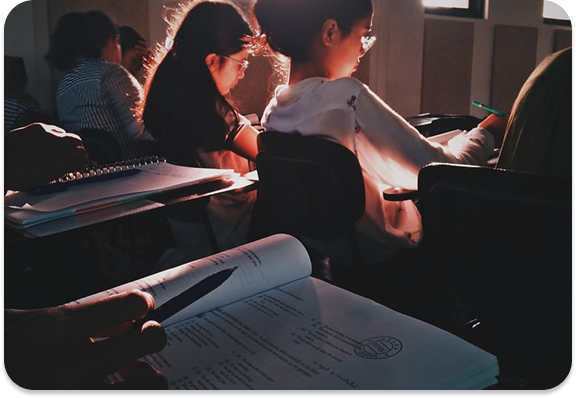
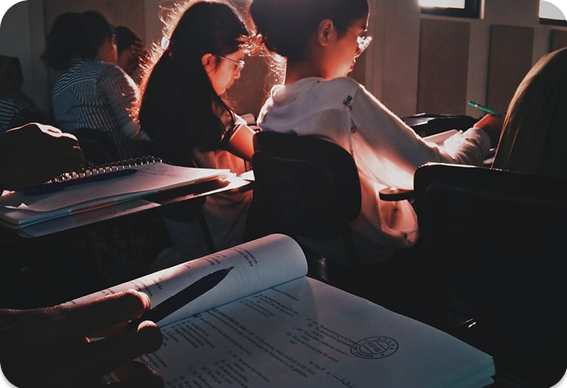
Add about section with content and styles; update margin utilities and navigation layout

diff --git a/index.html b/index.html
@@ -36,7 +36,7 @@
       </ul>
     </nav>
     <main class="main-section container">
-      <section class="hero-section grid-cols-2 u-margin-y-medium shadow--bl">
+      <section class="hero-section grid-cols-2 u-margin-bottom-xl">
         <div class="hero__images shadow--center">
           <img
             src="assets/images/mobile-home.png"
@@ -89,6 +89,36 @@
               </div>
             </div>
           </div>
+        </div>
+      </section>
+
+      <section class="about-section u-margin-bottom-xl">
+        <h2 class="heading-secondary u-margin-bottom-medium">درباره ما</h2>
+
+        <div class="grid-cols-2 class">
+          <div>
+            <h2 class="heading-secondary">با لکسی آسان یاد بگیر</h2>
+            <p class="paragraph">
+              اپلیکیشن لکسی، اولین پلنفرم هوشمند آموزش زبان انگلیسی میباشد که با
+              بهره گیری از مناسب ترین متد آموزشی، شما میتوانید آموزش زبان را با
+              آن شروع کنید. محتوای آموزشی این اپ، کاملا اصلی و به اصلاح ارجینال
+              میباشد و تیم تولید محتوای لکسی بصورت تخصصی مشغول تولید محتوای
+              آموزشی برای اپ بوده اند. همچین با استفاده از لکسی، هر 4 مهارت اصلی
+              شامل Reading, Listening, Writing, speaking به کاربر آموزش داده
+              میشه و در پایان هر درس، آزمون هوشمند برای سنجش سطح کاربر گرفته
+              میشود. در هر درس، تمریناتی وجود دارد که کاربر میبایست آنها را
+              انجام داده و در برنامه آپلود کند و اینجاست که این تمرینات توسط
+              معلمان تصحیح شده و به کاربر بازخورد داده میشود. وجود یک معلم که
+              همیشه همراه کاربر باشد، لکسی را به بهترین برنامه برای آموزش زبان
+              انگلسی تبدیل میکند.
+            </p>
+          </div>
+
+          <img
+            class="about__image"
+            src="assets/images/about-us.png"
+            alt="About us image"
+          />
         </div>
       </section>
     </main>

diff --git a/sass/pages/_home.scss b/sass/pages/_home.scss
@@ -3,67 +3,79 @@
 
 .hero-section {
   position: relative;
-}
+  align-items: center;
+  gap: 2rem;
 
-.hero {
-  &__images {
-    position: relative;
-  }
-  &__img-1 {
-    object-fit: cover;
-    width: 32rem;
-  }
-  &__img-2 {
-    @include mixins.absCenter;
-    width: 38rem;
-    object-fit: cover;
-    transform: translate(-65%, -50%);
-    z-index: -1;
-  }
+  .hero {
+    &__images {
+      position: relative;
+    }
+    &__img-1 {
+      object-fit: cover;
+      width: 32rem;
+    }
+    &__img-2 {
+      @include mixins.absCenter;
+      width: 38rem;
+      object-fit: cover;
+      transform: translate(-65%, -50%);
+      z-index: -1;
+    }
 
-  &__content {
-  }
+    &__content {
+    }
 
-  &__info {
-    display: flex;
-    justify-content: flex-end;
-    align-items: center;
-    gap: 8rem;
-    margin-top: 8rem;
-  }
+    &__info {
+      display: flex;
+      justify-content: flex-end;
+      align-items: center;
+      gap: 8rem;
+      margin-top: 8rem;
+    }
 
-  &__info-item {
-    display: flex;
-    justify-content: center;
-    align-items: center;
-    gap: 2rem;
+    &__info-item {
+      display: flex;
+      justify-content: center;
+      align-items: center;
+      gap: 2rem;
 
-    &:not(:last-child) {
-      border-left: 1px solid $color-grey-dark;
-      padding-left: 4rem;
+      &:not(:last-child) {
+        border-left: 1px solid $color-grey-dark;
+        padding-left: 4rem;
+      }
+    }
+
+    &__info-icon {
+      width: 4rem;
+      height: 5rem;
+    }
+
+    &__installed-icon {
+      color: $color-grey;
+    }
+    &__users-icon {
+      color: #f4a38c;
+    }
+
+    &__info-amount {
+      font-size: $font-xl;
+      font-weight: 800;
+      display: block;
+      direction: ltr;
+      margin-bottom: 0.5rem;
+    }
+    &__info-label {
+      color: $color-grey-dark;
     }
   }
+}
 
-  &__info-icon {
-    width: 4rem;
-    height: 5rem;
-  }
-
-  &__installed-icon {
-    color: $color-grey;
-  }
-  &__users-icon {
-    color: #f4a38c;
-  }
-
-  &__info-amount {
-    font-size: $font-xl;
-    font-weight: 800;
-    display: block;
-    direction: ltr;
-    margin-bottom: 0.5rem;
-  }
-  &__info-label {
-    color: $color-grey-dark;
+.about-section {
+  .about {
+    &__image {
+      border-radius: 30px;
+      margin-right: 4rem;
+      box-shadow: 0 4px 4px rgba($color-black, 0.25);
+    }
   }
 }

diff --git a/css/style.css b/css/style.css
@@ -785,8 +785,12 @@ body {
   margin-bottom: 4rem;
 }
 
-.u-margin-bottom-small {
+.u-margin-bottom-large {
   margin-bottom: 6rem;
+}
+
+.u-margin-bottom-xl {
+  margin-bottom: 12rem;
 }
 
 .u-margin-y-medium {
@@ -796,8 +800,10 @@ body {
 .navigation {
   background-color: transparent;
   backdrop-filter: blur(10px);
-  padding: 1rem;
-  margin: 0 10rem;
+  padding: 1rem 4rem;
+  margin: 0 auto 6rem;
+  max-width: 130rem;
+  width: 100%;
   border-radius: 15px;
   display: flex;
   align-items: center;
@@ -836,7 +842,7 @@ body {
 .container {
   max-width: 130rem;
   margin: 0 auto;
-  padding: 0 1rem;
+  padding: 0 2rem;
 }
 
 .main-section {
@@ -846,7 +852,6 @@ body {
 .grid-cols-2 {
   display: grid;
   grid-template-columns: 1fr 1fr;
-  align-items: center;
 }
 
 .shadow--bl::after {
@@ -922,16 +927,17 @@ body {
 
 .hero-section {
   position: relative;
+  align-items: center;
+  gap: 2rem;
 }
-
-.hero__images {
+.hero-section .hero__images {
   position: relative;
 }
-.hero__img-1 {
+.hero-section .hero__img-1 {
   object-fit: cover;
   width: 32rem;
 }
-.hero__img-2 {
+.hero-section .hero__img-2 {
   position: absolute;
   top: 50%;
   left: 50%;
@@ -941,42 +947,48 @@ body {
   transform: translate(-65%, -50%);
   z-index: -1;
 }
-.hero__info {
+.hero-section .hero__info {
   display: flex;
   justify-content: flex-end;
   align-items: center;
   gap: 8rem;
   margin-top: 8rem;
 }
-.hero__info-item {
+.hero-section .hero__info-item {
   display: flex;
   justify-content: center;
   align-items: center;
   gap: 2rem;
 }
-.hero__info-item:not(:last-child) {
+.hero-section .hero__info-item:not(:last-child) {
   border-left: 1px solid #898a8d;
   padding-left: 4rem;
 }
-.hero__info-icon {
+.hero-section .hero__info-icon {
   width: 4rem;
   height: 5rem;
 }
-.hero__installed-icon {
+.hero-section .hero__installed-icon {
   color: #c4c4c4;
 }
-.hero__users-icon {
+.hero-section .hero__users-icon {
   color: #f4a38c;
 }
-.hero__info-amount {
+.hero-section .hero__info-amount {
   font-size: 2.4rem;
   font-weight: 800;
   display: block;
   direction: ltr;
   margin-bottom: 0.5rem;
 }
-.hero__info-label {
+.hero-section .hero__info-label {
   color: #898a8d;
+}
+
+.about-section .about__image {
+  border-radius: 30px;
+  margin-right: 4rem;
+  box-shadow: 0 4px 4px rgba(0, 0, 0, 0.25);
 }
 
 /*# sourceMappingURL=style.css.map */

diff --git a/sass/layout/_navigation.scss b/sass/layout/_navigation.scss
@@ -4,8 +4,10 @@
 .navigation {
   background-color: transparent;
   backdrop-filter: blur(10px);
-  padding: 1rem;
-  margin: 0 10rem;
+  padding: 1rem 4rem;
+  margin: 0 auto 6rem;
+  max-width: 130rem;
+  width: 100%;
   border-radius: $round-xl;
   display: flex;
   align-items: center;

diff --git a/sass/base/_utils.scss b/sass/base/_utils.scss
@@ -14,8 +14,12 @@
 .u-margin-bottom-medium {
   margin-bottom: 4rem;
 }
-.u-margin-bottom-small {
+.u-margin-bottom-large {
   margin-bottom: 6rem;
+}
+
+.u-margin-bottom-xl {
+  margin-bottom: 12rem;
 }
 
 .u-margin-y-medium {

diff --git a/sass/layout/_container.scss b/sass/layout/_container.scss
@@ -1,7 +1,7 @@
 .container {
   max-width: 130rem;
   margin: 0 auto;
-  padding: 0 1rem;
+  padding: 0 2rem;
 }
 
 .main-section {

diff --git a/sass/layout/_grid.scss b/sass/layout/_grid.scss
@@ -1,5 +1,4 @@
 .grid-cols-2 {
   display: grid;
   grid-template-columns: 1fr 1fr;
-  align-items: center;
 }
